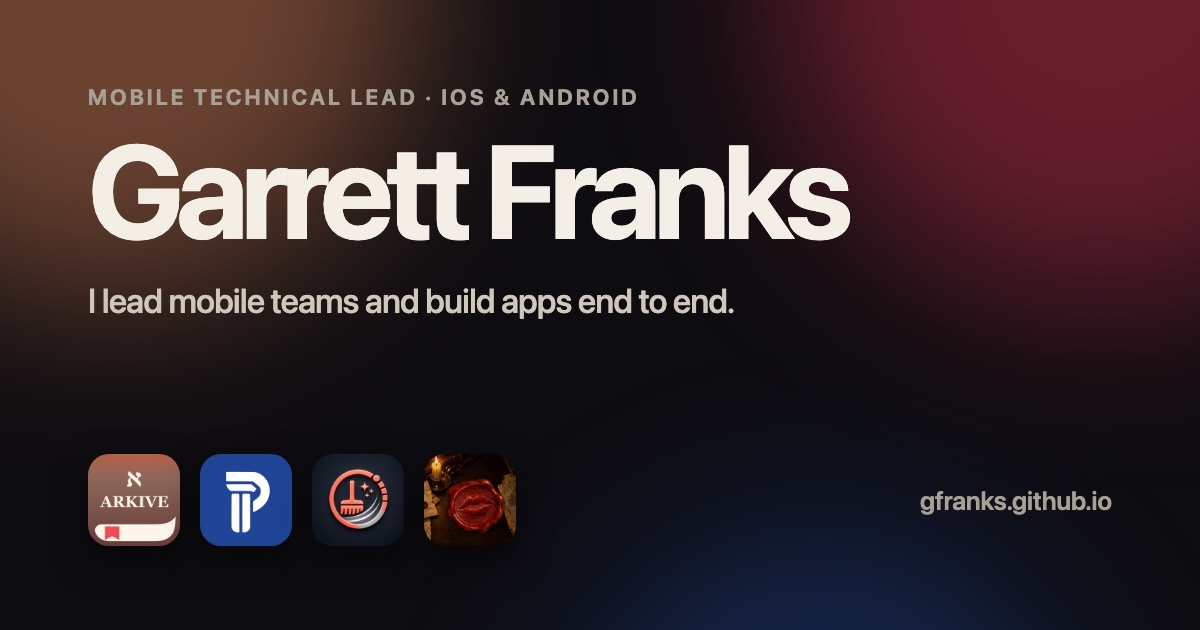
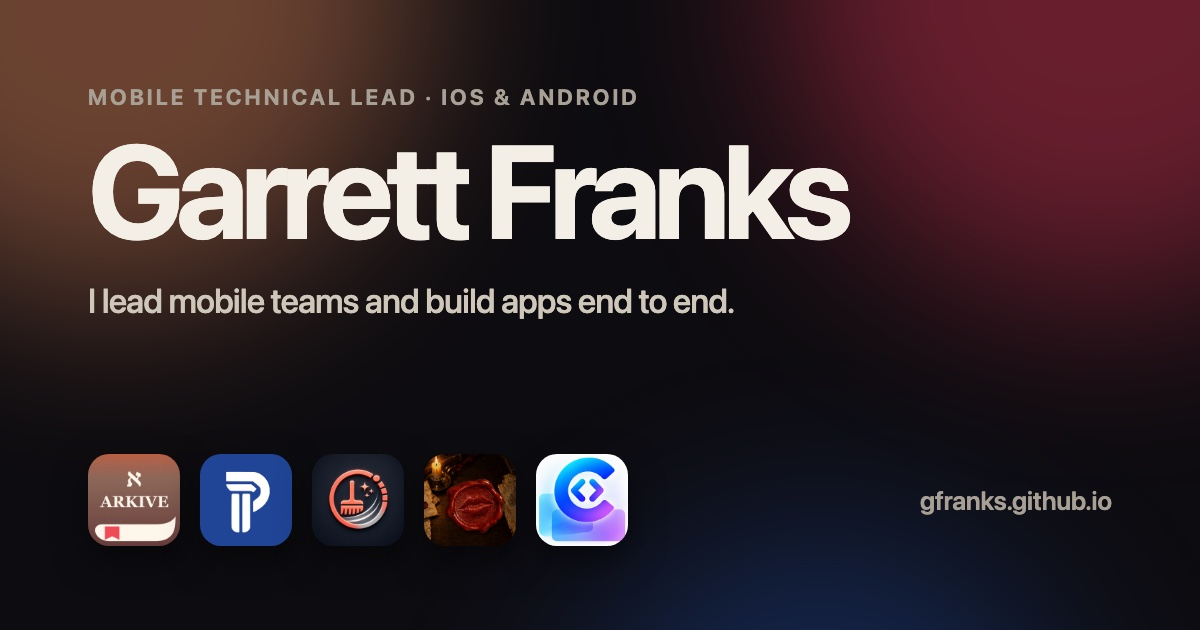
Candidly: app page, home card, share image; AppKit and Metal skills; four platforms
Claude-Session: https://claude.ai/code/session_01SVF6G5myfGyu7tSb7ygEjW

Changed region(s): [[0.4317, 0.6937, 0.5242, 0.8746]]

diff --git a/index.html b/index.html
@@ -11,16 +11,16 @@
 <meta property="og:url" content="https://gfranks.github.io/">
 <meta property="og:title" content="Garrett Franks">
 <meta property="og:description" content="Mobile technical lead · iOS &amp; Android. I lead mobile teams and build apps end to end, from the first sketch to the App Store: Swift and SwiftUI, Kotlin and Compose, and the web and backend behind them.">
-<meta property="og:image" content="https://gfranks.github.io/assets/og/home.jpg?v=ffd0bc32">
+<meta property="og:image" content="https://gfranks.github.io/assets/og/home.jpg?v=86cdd281">
 <meta property="og:image:width" content="1200">
 <meta property="og:image:height" content="630">
 <meta property="og:image:alt" content="Garrett Franks">
 <meta name="twitter:card" content="summary_large_image">
-<meta name="twitter:image" content="https://gfranks.github.io/assets/og/home.jpg?v=ffd0bc32">
+<meta name="twitter:image" content="https://gfranks.github.io/assets/og/home.jpg?v=86cdd281">
 <link rel="icon" type="image/svg+xml" href="/assets/favicon.svg?v=899bf783">
 <link rel="icon" href="/favicon.ico?v=88900e7a" sizes="48x48">
 <link rel="apple-touch-icon" href="/assets/apple-touch-icon.png?v=1cdace26">
-<link rel="stylesheet" href="/assets/home.css?v=bdaa48d1">
+<link rel="stylesheet" href="/assets/home.css?v=73c8c75f">
 <script src="/assets/home.js?v=7621e0b1" defer></script>
 </head>
 <body class="home">
@@ -34,9 +34,9 @@
     <ul class="now" aria-label="Currently"><li><span>Mobile technical lead</span> <a href="https://www.wahoofitness.com">Wahoo Fitness</a></li><li><span>Founder</span> <a href="/pyllar/">C&amp;F Solutions LLC</a></li></ul>
     <div class="ctas"><a class="cta primary" href="mailto:lgfz71@gmail.com"><svg class="ic logo" viewBox="0 0 16 16" aria-hidden="true"><rect x="1.5" y="3" width="13" height="10" rx="2" fill="none" stroke="currentColor" stroke-width="1.5"/><path d="m2.5 4.5 5.5 4 5.5-4" fill="none" stroke="currentColor" stroke-width="1.5" stroke-linecap="round" stroke-linejoin="round"/></svg> Email me</a><a class="cta" href="https://github.com/gfranks"><svg class="ic logo" viewBox="0 0 16 16" aria-hidden="true"><path fill="currentColor" d="M8 0C3.58 0 0 3.58 0 8c0 3.54 2.29 6.53 5.47 7.59.4.07.55-.17.55-.38 0-.19-.01-.82-.01-1.49-2.01.37-2.53-.49-2.69-.94-.09-.23-.48-.94-.82-1.13-.28-.15-.68-.52-.01-.53.63-.01 1.08.58 1.23.82.72 1.21 1.87.87 2.33.66.07-.52.28-.87.51-1.07-1.78-.2-3.64-.89-3.64-3.95 0-.87.31-1.59.82-2.15-.08-.2-.36-1.02.08-2.12 0 0 .67-.21 2.2.82.64-.18 1.32-.27 2-.27.68 0 1.36.09 2 .27 1.53-1.04 2.2-.82 2.2-.82.44 1.1.16 1.92.08 2.12.51.56.82 1.27.82 2.15 0 3.07-1.87 3.75-3.65 3.95.29.25.54.73.54 1.48 0 1.07-.01 1.93-.01 2.2 0 .21.15.46.55.38A8.013 8.013 0 0 0 16 8c0-4.42-3.58-8-8-8z"/></svg> GitHub</a><a class="cta" href="https://www.linkedin.com/in/garrett-franks-96528837/"><svg class="ic logo" viewBox="0 0 24 24" aria-hidden="true"><path fill="currentColor" d="M20.45 20.45h-3.55v-5.57c0-1.33-.03-3.04-1.85-3.04-1.85 0-2.14 1.45-2.14 2.94v5.67H9.36V9h3.41v1.56h.05c.48-.9 1.64-1.85 3.37-1.85 3.6 0 4.27 2.37 4.27 5.46v6.28zM5.34 7.43a2.06 2.06 0 1 1 0-4.13 2.06 2.06 0 0 1 0 4.13zM7.12 20.45H3.56V9h3.56v11.45zM22.23 0H1.77C.79 0 0 .77 0 1.73v20.54C0 23.23.79 24 1.77 24h20.45c.98 0 1.78-.77 1.78-1.73V1.73C24 .77 23.2 0 22.22 0h.01z"/></svg> LinkedIn</a></div>
     <dl class="stats">
-      <div style="--i:0"><dt>4</dt><dd>Products</dd></div>
+      <div style="--i:0"><dt>5</dt><dd>Products</dd></div>
       <div style="--i:1"><dt>2</dt><dd>On the App Store</dd></div>
-      <div style="--i:2"><dt>3</dt><dd>Platforms</dd></div>
+      <div style="--i:2"><dt>4</dt><dd>Platforms</dd></div>
       <div style="--i:3"><dt>0</dt><dd>Trackers</dd></div>
     </dl>
   </header>
@@ -122,6 +122,25 @@
         </div>
         <a class="app-shots portrait" href="/whispercourt/" aria-hidden="true" tabindex="-1"><img src="/assets/shots/whispercourt/02.jpg?v=a1856243" alt="" width="441" height="960"><video class="" src="/assets/video/whispercourt.mp4?v=18759580" poster="/assets/video/whispercourt-poster.jpg?v=997e894b" autoplay muted loop playsinline preload="metadata" aria-label="Whisper Court in use"></video><img src="/assets/shots/whispercourt/03.jpg?v=dce01529" alt="" width="441" height="960"></a>
       </article>
+      <article class="app" data-app="candidly" style="--i:4">
+        <span class="spot" aria-hidden="true"></span>
+        <div class="app-body">
+          <div class="app-head">
+            <a class="app-icon" href="/candidly/" aria-hidden="true" tabindex="-1"><img src="/assets/icons/candidly.jpg?v=c912c392" alt="" class="glow" width="512" height="512"><img src="/assets/icons/candidly.jpg?v=c912c392" alt="" width="512" height="512"></a>
+            <div>
+              <p class="kind">Remote desktop <span class="status">In development</span></p>
+              <h3><a href="/candidly/">Candidly</a></h3>
+            </div>
+          </div>
+          <p class="tagline">Control your Mac from your iPhone, iPad or another Mac, with your phone as the trackpad.</p>
+          <ul class="facts"><li>Swift 6</li><li>SwiftUI</li><li>UIKit &amp; AppKit</li><li>Metal</li><li>Network framework</li><li>CryptoKit &amp; Security</li><li class="more">+3</li></ul>
+          <div class="actions">
+            <a class="store" href="/candidly/">See how it's built <svg class="ic" viewBox="0 0 16 16" aria-hidden="true"><path d="M3 8h10M9 4l4 4-4 4" fill="none" stroke="currentColor" stroke-width="1.6" stroke-linecap="round" stroke-linejoin="round"/></svg></a>
+            <span class="secondary soon">Coming soon to the App Store</span>
+          </div>
+        </div>
+        <div class="app-art"><a class="app-icon" href="/candidly/" aria-hidden="true" tabindex="-1"><img src="/assets/icons/candidly.jpg?v=c912c392" alt="" class="glow" width="512" height="512"><img src="/assets/icons/candidly.jpg?v=c912c392" alt="" width="512" height="512"></a></div>
+      </article>
     </div>
 
     <section class="skills">
@@ -129,7 +148,7 @@
       <div class="skill-grid">
       <div class="skill">
         <h3>Apple platforms</h3>
-        <ul class="skill-chips"><li>Swift</li><li>SwiftUI</li><li>UIKit</li><li>SwiftData</li><li>CloudKit</li><li>WidgetKit</li><li>ActivityKit</li><li>App Intents</li><li>MapKit</li><li>StoreKit</li><li>Swift Testing</li></ul>
+        <ul class="skill-chips"><li>Swift</li><li>SwiftUI</li><li>UIKit</li><li>AppKit</li><li>Metal</li><li>SwiftData</li><li>CloudKit</li><li>WidgetKit</li><li>ActivityKit</li><li>App Intents</li><li>MapKit</li><li>StoreKit</li><li>Swift Testing</li></ul>
       </div>
       <div class="skill">
         <h3>Android</h3>

diff --git a/candidly/index.html b/candidly/index.html
@@ -1,0 +1,76 @@
+<!doctype html>
+<html lang="en" data-app="candidly">
+<head>
+<meta charset="utf-8">
+<meta name="viewport" content="width=device-width, initial-scale=1">
+<title>Candidly — Garrett Franks</title>
+<meta name="description" content="Candidly: Control your Mac from your iPhone, iPad or another Mac, with your phone as the trackpad.">
+<link rel="canonical" href="https://gfranks.github.io/candidly/">
+<meta property="og:type" content="website">
+<meta property="og:site_name" content="Garrett Franks">
+<meta property="og:url" content="https://gfranks.github.io/candidly/">
+<meta property="og:title" content="Candidly — Garrett Franks">
+<meta property="og:description" content="Candidly: Control your Mac from your iPhone, iPad or another Mac, with your phone as the trackpad.">
+<meta property="og:image" content="https://gfranks.github.io/assets/og/candidly.jpg?v=105cd686">
+<meta property="og:image:width" content="1200">
+<meta property="og:image:height" content="630">
+<meta property="og:image:alt" content="Candidly — Garrett Franks">
+<meta name="twitter:card" content="summary_large_image">
+<meta name="twitter:image" content="https://gfranks.github.io/assets/og/candidly.jpg?v=105cd686">
+<link rel="icon" type="image/jpeg" href="/assets/icons/candidly.jpg">
+<link rel="apple-touch-icon" href="/assets/icons/candidly.jpg">
+<link rel="stylesheet" href="/assets/legal.css?v=03ac2612">
+<link rel="stylesheet" href="/assets/themes.css?v=5572d4c5">
+<script src="/assets/home.js?v=7621e0b1" defer></script>
+</head>
+<body>
+
+  <div class="hero hero-big">
+    <a class="back" href="/"><svg class="ic" viewBox="0 0 16 16" aria-hidden="true"><path d="M10 3 5 8l5 5" fill="none" stroke="currentColor" stroke-width="1.6" stroke-linecap="round" stroke-linejoin="round"/></svg> Garrett Franks</a>
+    <a href="/candidly/"><img src="/assets/icons/candidly.jpg?v=c912c392" alt="Candidly icon" width="512" height="512"></a>
+    <h1>Candidly</h1>
+    <p>Remote desktop · iPhone, iPad &amp; Mac</p>
+    <p class="hero-tagline">Control your Mac from your iPhone, iPad or another Mac, with your phone as the trackpad.</p>
+    <div class="hero-actions"><span class="hero-store soon">Coming soon to the App Store</span><span class="hero-status">In development</span></div>
+  </div>
+
+  <main>
+    <section class="card">
+      <h2>About</h2>
+      <p class="lede">Candidly connects to the Screen Sharing that&#x27;s already built into macOS, so there&#x27;s nothing to install on the Mac. Sign in with your Mac account, pick a display, and work with touch, a trackpad-style cursor, or a hardware keyboard and mouse. Your computers and their passwords follow you through iCloud.</p>
+      <ul class="facts"><li>Swift 6</li><li>SwiftUI</li><li>UIKit &amp; AppKit</li><li>Metal</li><li>Network framework</li><li>CryptoKit &amp; Security</li><li>iCloud Keychain</li><li>Swift Testing</li><li>XcodeGen</li></ul>
+    </section>
+
+    <section class="card">
+      <h2>What I built</h2>
+      <ul class="built">
+        <li>The VNC (RFB) protocol written from scratch in Swift, including Apple&#x27;s Screen Sharing extensions: Mac account sign-in over Diffie-Hellman and RSA, display selection, the shared-or-private session choice and the Mac clipboard. No third-party code.</li>
+        <li>ZRLE, Zlib, Hextile and CopyRect decoders hardened against a misbehaving server, with output and size limits, and tested against an in-process fake server and a real VNC server.</li>
+        <li>A Metal renderer that uploads only the parts of the screen that changed, so a 5K Mac stays smooth on an iPhone.</li>
+        <li>Touch and Trackpad modes with the full gesture set: multi-finger clicks and drags, two-finger scroll, pinch zoom, edge and corner swipes, and three-finger swipes for Mission Control and Spaces.</li>
+        <li>Saved computers sync through iCloud with merge rules and deletion tombstones, passwords live in iCloud Keychain, and Macs on the network are found with Bonjour.</li>
+      </ul>
+    </section>
+
+    <section class="card">
+      <h2>How it fits together</h2>
+      <div class="arch">
+        <div class="tier"><h3>Apps</h3><ul style="--cols:3"><li><strong>iPhone &amp; iPad viewer</strong><span>Gestures, key bar, Metal</span></li><li><strong>Mac viewer</strong><span>AppKit, Metal</span></li><li><strong>Computer list</strong><span>SwiftUI, shared</span></li></ul></div>
+        <p class="flow"><span>one session per open viewer</span></p>
+        <div class="tier"><h3>CandidlyKit</h3><ul style="--cols:3"><li><strong>ComputerStore</strong><span>iCloud key-value store + local file</span></li><li><strong>CredentialStore</strong><span>iCloud Keychain</span></li><li><strong>BonjourBrowser</strong><span>Finds Macs with Screen Sharing on</span></li></ul></div>
+        <p class="flow"><span>connect, sign in, stream</span></p>
+        <div class="tier"><h3>RFBKit (Swift package, no UI)</h3><ul style="--cols:2"><li><strong>Transport</strong><span>Network framework, keepalive</span></li><li><strong>Sign-in</strong><span>VNC, Apple DH, RSA tunnel</span></li><li><strong>Decoders</strong><span>ZRLE, Zlib, Hextile, CopyRect</span></li><li><strong>Apple extensions</strong><span>Displays, sessions, clipboard</span></li></ul></div>
+        <p class="flow"><span>RFB over TCP, on the LAN or Tailscale</span></p>
+        <div class="tier"><h3>Your Mac</h3><ul style="--cols:1"><li><strong>macOS Screen Sharing</strong><span>Built in, nothing to install</span></li></ul></div>
+      </div>
+    </section>
+
+  </main>
+
+  <footer>
+    <p><a href="/">Garrett Franks</a> · <a href="mailto:lgfz71@gmail.com">lgfz71@gmail.com</a> · <a href="https://github.com/gfranks">GitHub</a> · <a href="https://www.linkedin.com/in/garrett-franks-96528837/">LinkedIn</a></p>
+    <p class="fine">© 2026 Garrett Franks</p>
+  </footer>
+
+</body>
+</html>

diff --git a/404.html b/404.html
@@ -11,16 +11,16 @@
 <meta property="og:url" content="https://gfranks.github.io/404.html">
 <meta property="og:title" content="Page not found — Garrett Franks">
 <meta property="og:description" content="Page not found.">
-<meta property="og:image" content="https://gfranks.github.io/assets/og/home.jpg?v=ffd0bc32">
+<meta property="og:image" content="https://gfranks.github.io/assets/og/home.jpg?v=86cdd281">
 <meta property="og:image:width" content="1200">
 <meta property="og:image:height" content="630">
 <meta property="og:image:alt" content="Page not found — Garrett Franks">
 <meta name="twitter:card" content="summary_large_image">
-<meta name="twitter:image" content="https://gfranks.github.io/assets/og/home.jpg?v=ffd0bc32">
+<meta name="twitter:image" content="https://gfranks.github.io/assets/og/home.jpg?v=86cdd281">
 <link rel="icon" type="image/svg+xml" href="/assets/favicon.svg?v=899bf783">
 <link rel="icon" href="/favicon.ico?v=88900e7a" sizes="48x48">
 <link rel="apple-touch-icon" href="/assets/apple-touch-icon.png?v=1cdace26">
-<link rel="stylesheet" href="/assets/home.css?v=bdaa48d1">
+<link rel="stylesheet" href="/assets/home.css?v=73c8c75f">
 </head>
 <body class="home">
 

diff --git a/assets/themes.css b/assets/themes.css
@@ -21,6 +21,11 @@
   --accent: #A31C25; --accent-ink: #ffffff; --hero-top: #3A2A1E; --hero-bottom: #16110D; --hero-ink: #E9DCC0;
   --card-border: rgba(42, 31, 23, 0.12); --rule: rgba(42, 31, 23, 0.14);
 }
+[data-app="candidly"] {
+  --bg: #F5F7FF; --bg-app: #EDF1FD; --text: #111633; --text-secondary: #59618A;
+  --accent: #3348F5; --accent-ink: #ffffff; --hero-top: #22A8F0; --hero-bottom: #1A1050; --hero-ink: #EEF2FF;
+  --card-border: rgba(17, 22, 51, 0.10); --rule: rgba(17, 22, 51, 0.12);
+}
 
 @media (prefers-color-scheme: dark) {
   :root:not([data-theme="light"])[data-app="arkive"] {
@@ -42,5 +47,10 @@
     --bg: #241B14; --bg-app: #16110D; --text: #E9DCC0; --text-secondary: #9C8C73;
     --accent: #D6454E; --accent-ink: #16110D;
     --card-border: rgba(233, 220, 192, 0.12); --rule: rgba(233, 220, 192, 0.14);
+  }
+  :root:not([data-theme="light"])[data-app="candidly"] {
+    --bg: #12142A; --bg-app: #0B0D1C; --text: #EEF1FF; --text-secondary: #9AA2C8;
+    --accent: #8C9BFF; --accent-ink: #0B0D1C; --hero-top: #2440C8; --hero-bottom: #0B0D1C;
+    --card-border: rgba(238, 241, 255, 0.10); --rule: rgba(238, 241, 255, 0.12);
   }
 }

diff --git a/assets/home.css b/assets/home.css
@@ -258,6 +258,7 @@ main {
 .app[data-app="tyde"] { --card: linear-gradient(135deg, #FF6B7A 0%, #8E2F52 48%, #14121F 100%); --pill: #FBEEF0; }
 .app[data-app="whispercourt"] { --card: linear-gradient(135deg, #5A4129 0%, #2C2017 50%, #120E0B 100%); --pill: #E9DCC0; --ink-on: #EFE3C8; }
 .app[data-app="whispercourt"] .kind { color: #D9B648; }
+.app[data-app="candidly"] { --card: linear-gradient(135deg, #22C3FF 0%, #3348F5 48%, #1A1050 100%); --pill: #EEF2FF; }
 
 .app-icon { position: relative; display: block; width: 76px; flex: none; aspect-ratio: 1; }
 .app-art { display: grid; place-items: center; }

diff --git a/whispercourt/index.html b/whispercourt/index.html
@@ -20,7 +20,7 @@
 <link rel="icon" type="image/jpeg" href="/assets/icons/whispercourt.jpg">
 <link rel="apple-touch-icon" href="/assets/icons/whispercourt.jpg">
 <link rel="stylesheet" href="/assets/legal.css?v=03ac2612">
-<link rel="stylesheet" href="/assets/themes.css?v=2358de7b">
+<link rel="stylesheet" href="/assets/themes.css?v=5572d4c5">
 <script src="/assets/home.js?v=7621e0b1" defer></script>
 </head>
 <body>

diff --git a/arkive/index.html b/arkive/index.html
@@ -20,7 +20,7 @@
 <link rel="icon" type="image/jpeg" href="/assets/icons/arkive.jpg">
 <link rel="apple-touch-icon" href="/assets/icons/arkive.jpg">
 <link rel="stylesheet" href="/assets/legal.css?v=03ac2612">
-<link rel="stylesheet" href="/assets/themes.css?v=2358de7b">
+<link rel="stylesheet" href="/assets/themes.css?v=5572d4c5">
 <script src="/assets/home.js?v=7621e0b1" defer></script>
 </head>
 <body>

diff --git a/pyllar/index.html b/pyllar/index.html
@@ -20,7 +20,7 @@
 <link rel="icon" type="image/jpeg" href="/assets/icons/pyllar.jpg">
 <link rel="apple-touch-icon" href="/assets/icons/pyllar.jpg">
 <link rel="stylesheet" href="/assets/legal.css?v=03ac2612">
-<link rel="stylesheet" href="/assets/themes.css?v=2358de7b">
+<link rel="stylesheet" href="/assets/themes.css?v=5572d4c5">
 <script src="/assets/home.js?v=7621e0b1" defer></script>
 </head>
 <body>

diff --git a/tyde/index.html b/tyde/index.html
@@ -20,7 +20,7 @@
 <link rel="icon" type="image/jpeg" href="/assets/icons/tyde.jpg">
 <link rel="apple-touch-icon" href="/assets/icons/tyde.jpg">
 <link rel="stylesheet" href="/assets/legal.css?v=03ac2612">
-<link rel="stylesheet" href="/assets/themes.css?v=2358de7b">
+<link rel="stylesheet" href="/assets/themes.css?v=5572d4c5">
 <script src="/assets/home.js?v=7621e0b1" defer></script>
 </head>
 <body>

diff --git a/whispercourt/privacy/index.html b/whispercourt/privacy/index.html
@@ -20,7 +20,7 @@
 <link rel="icon" type="image/jpeg" href="/assets/icons/whispercourt.jpg">
 <link rel="apple-touch-icon" href="/assets/icons/whispercourt.jpg">
 <link rel="stylesheet" href="/assets/legal.css?v=03ac2612">
-<link rel="stylesheet" href="/assets/themes.css?v=2358de7b">
+<link rel="stylesheet" href="/assets/themes.css?v=5572d4c5">
 </head>
 <body>
 

diff --git a/whispercourt/support/index.html b/whispercourt/support/index.html
@@ -20,7 +20,7 @@
 <link rel="icon" type="image/jpeg" href="/assets/icons/whispercourt.jpg">
 <link rel="apple-touch-icon" href="/assets/icons/whispercourt.jpg">
 <link rel="stylesheet" href="/assets/legal.css?v=03ac2612">
-<link rel="stylesheet" href="/assets/themes.css?v=2358de7b">
+<link rel="stylesheet" href="/assets/themes.css?v=5572d4c5">
 </head>
 <body>
 

diff --git a/whispercourt/terms/index.html b/whispercourt/terms/index.html
@@ -20,7 +20,7 @@
 <link rel="icon" type="image/jpeg" href="/assets/icons/whispercourt.jpg">
 <link rel="apple-touch-icon" href="/assets/icons/whispercourt.jpg">
 <link rel="stylesheet" href="/assets/legal.css?v=03ac2612">
-<link rel="stylesheet" href="/assets/themes.css?v=2358de7b">
+<link rel="stylesheet" href="/assets/themes.css?v=5572d4c5">
 </head>
 <body>
 
